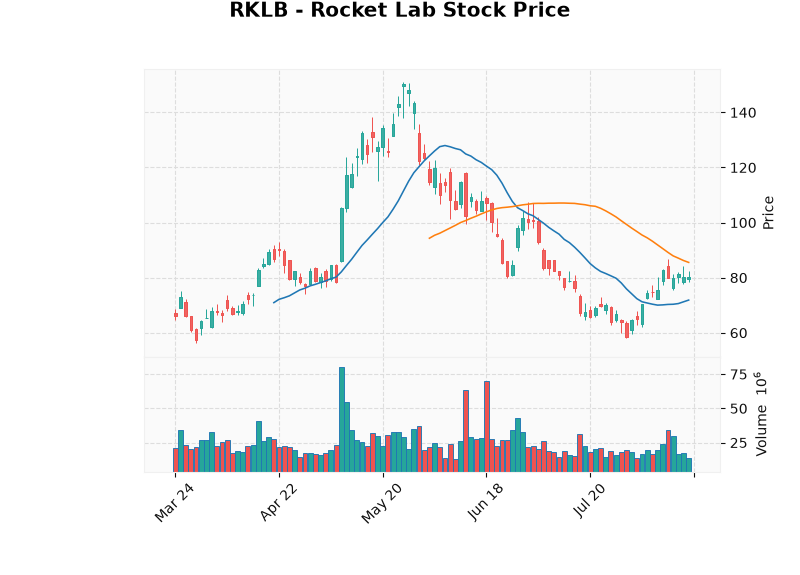
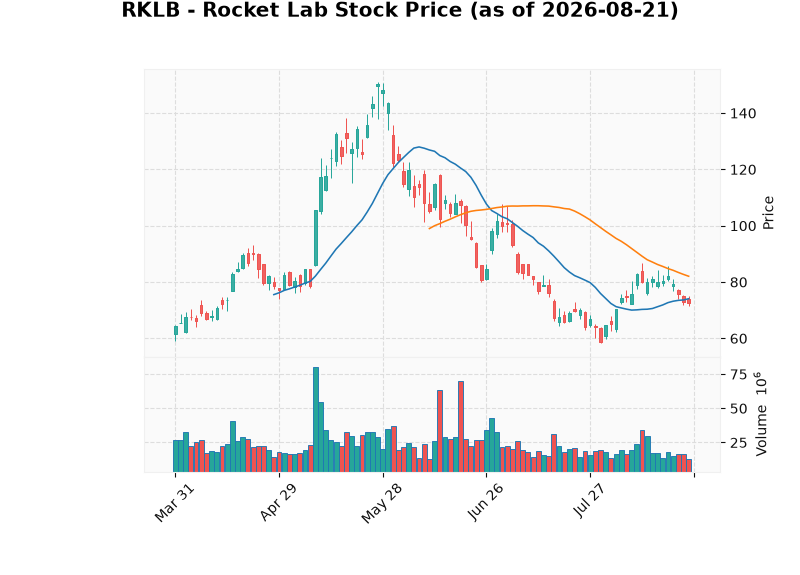
Add /help command, price move alerts, move CHAT_ID to config

diff --git a/telegram_bot.py b/telegram_bot.py
@@ -3,14 +3,34 @@ matplotlib.use('Agg')
 
 from telegram import Update
 from telegram.ext import ApplicationBuilder, CommandHandler, ContextTypes
-from config import TELEGRAM_TOKEN
+from config import TELEGRAM_TOKEN, CHAT_ID
 from stocks import get_data, calculate_rsi, calculate_vwap, calculate_bollinger_bands, rsi_status
 import mplfinance as mpf
 import matplotlib.pyplot as plt
 
+ALERT_INTERVAL_SECONDS = 3600
+PRICE_MOVE_THRESHOLD_PCT = 5.0
+
 
 async def start(update: Update, context: ContextTypes.DEFAULT_TYPE):
-    await update.message.reply_text("Hello! RKLB Monitor Bot is online.")
+    await update.message.reply_text(
+        "Hello! RKLB Monitor Bot is online.\n\n"
+        "Use /help to see available commands."
+    )
+    print(f"Your chat ID is: {update.message.chat_id}")
+
+
+async def help_command(update: Update, context: ContextTypes.DEFAULT_TYPE):
+    message = (
+        "RKLB Monitor Bot — Commands\n\n"
+        "/price — current price, daily change, RSI\n"
+        "/chart — full technical chart (candles, SMA, VWAP, Bollinger, volume, RSI)\n"
+        "/help — show this message\n\n"
+        f"Automatic alerts: RSI overbought/oversold, and price moves of "
+        f"{PRICE_MOVE_THRESHOLD_PCT:.0f}%+ in a day — checked every "
+        f"{ALERT_INTERVAL_SECONDS // 60} minutes."
+    )
+    await update.message.reply_text(message)
 
 
 async def price(update: Update, context: ContextTypes.DEFAULT_TYPE):
@@ -25,10 +45,12 @@ async def price(update: Update, context: ContextTypes.DEFAULT_TYPE):
     change_pct = ((current_price - previous_close) / previous_close) * 100
     current_rsi = df['RSI'].iloc[-1]
     label = rsi_status(current_rsi)
+    last_date = df.index[-1].strftime('%Y-%m-%d')
 
     sign = "+" if change_pct >= 0 else ""
     message = (f"RKLB: ${current_price:.2f} ({sign}{change_pct:.2f}%)\n"
-               f"RSI(14): {current_rsi:.1f} ({label})")
+               f"RSI(14): {current_rsi:.1f} ({label})\n"
+               f"Data as of: {last_date}")
     await update.message.reply_text(message)
 
 
@@ -46,12 +68,14 @@ async def chart(update: Update, context: ContextTypes.DEFAULT_TYPE):
         bb_middle, bb_upper, bb_lower = calculate_bollinger_bands(df)
         df['BB_upper'] = bb_upper
         df['BB_lower'] = bb_lower
+        last_date = df.index[-1].strftime('%Y-%m-%d')
 
         mc = mpf.make_marketcolors(up='#26a69a', down='#ef5350', inherit=True)
         style = mpf.make_mpf_style(base_mpf_style='yahoo', marketcolors=mc, gridstyle='--', gridcolor='#dddddd')
 
         mpf.plot(df, type='candle', style=style, mav=(20, 50), volume=True,
-                 title="RKLB - Rocket Lab Stock Price", savefig='chart.png')
+                 title=f"RKLB - Rocket Lab Stock Price (as of {last_date})",
+                 datetime_format='%b %d', savefig='chart.png')
         plt.close('all')
 
         await update.message.reply_photo(photo=open('chart.png', 'rb'))
@@ -60,11 +84,46 @@ async def chart(update: Update, context: ContextTypes.DEFAULT_TYPE):
         await update.message.reply_text(f"Error generating chart: {e}")
 
 
+async def check_alerts(context: ContextTypes.DEFAULT_TYPE):
+    df = get_data()
+    if df is None:
+        print("Alert check: could not fetch data.")
+        return
+
+    df['RSI'] = calculate_rsi(df)
+    current_rsi = df['RSI'].iloc[-1]
+    label = rsi_status(current_rsi)
+
+    current_price = df['Close'].iloc[-1]
+    previous_close = df['Close'].iloc[-2]
+    change_pct = ((current_price - previous_close) / previous_close) * 100
+
+    alerts = []
+
+    if label in ("OVERSOLD", "OVERBOUGHT"):
+        alerts.append(f"RSI ALERT: RKLB is {label}\nRSI(14): {current_rsi:.1f}")
+
+    if abs(change_pct) >= PRICE_MOVE_THRESHOLD_PCT:
+        direction = "UP" if change_pct >= 0 else "DOWN"
+        alerts.append(f"PRICE MOVE ALERT: RKLB is {direction} {abs(change_pct):.2f}% today")
+
+    if alerts:
+        for alert_text in alerts:
+            full_message = f"{alert_text}\nPrice: ${current_price:.2f}"
+            await context.bot.send_message(chat_id=CHAT_ID, text=full_message)
+            print(f"Alert sent: {alert_text.splitlines()[0]}")
+    else:
+        print(f"No alert needed. RSI: {current_rsi:.1f} ({label}), change: {change_pct:.2f}%")
+
+
 if __name__ == "__main__":
     app = ApplicationBuilder().token(TELEGRAM_TOKEN).connect_timeout(30).read_timeout(30).build()
     app.add_handler(CommandHandler("start", start))
+    app.add_handler(CommandHandler("help", help_command))
     app.add_handler(CommandHandler("price", price))
     app.add_handler(CommandHandler("chart", chart))
+
+    app.job_queue.run_repeating(check_alerts, interval=ALERT_INTERVAL_SECONDS, first=10)
 
     print("Bot is running. Press Ctrl+C to stop.")
     app.run_polling()
